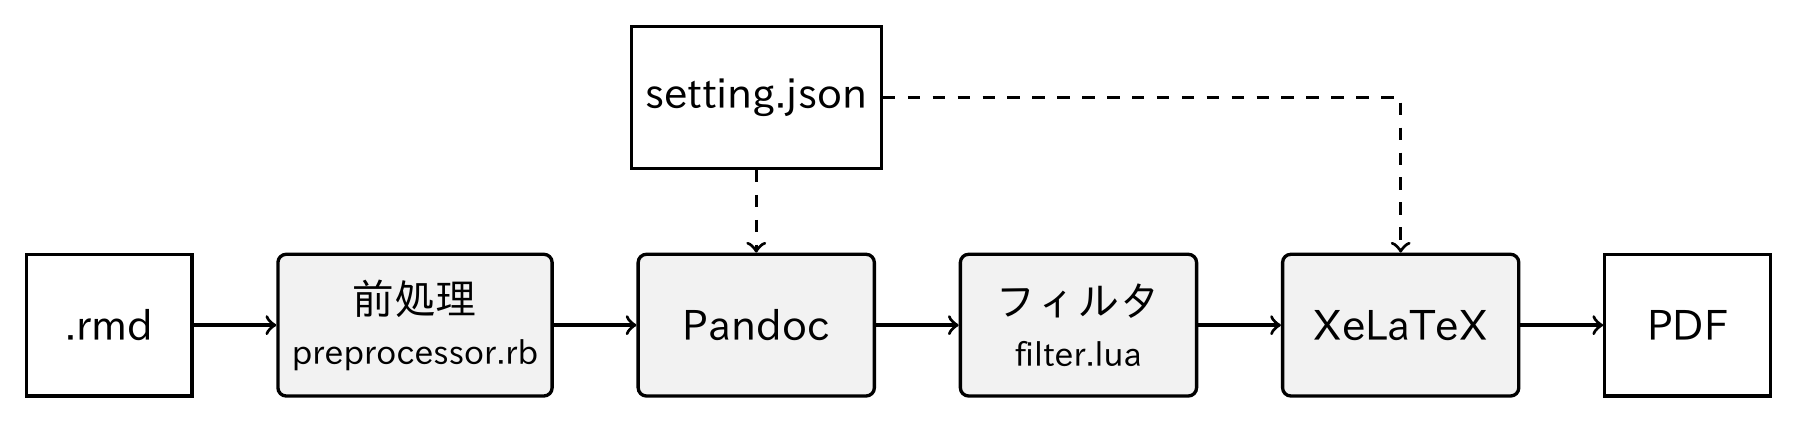
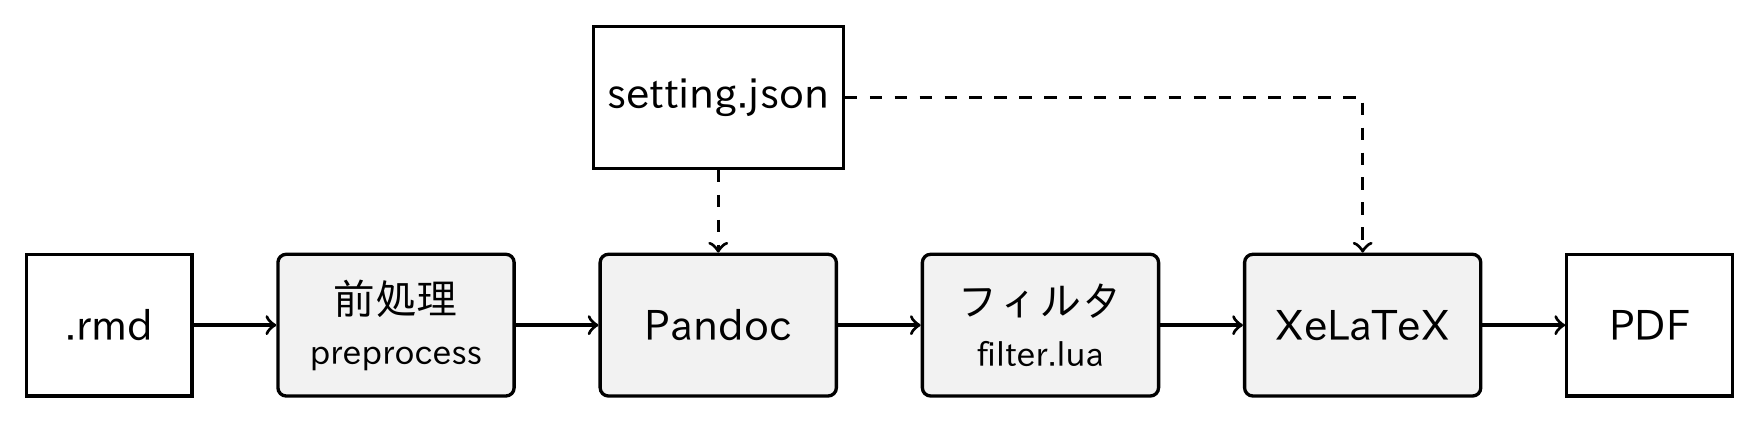
Update the example diagram for the Go preprocessor

diff --git a/examples/images/pipeline.tex b/examples/images/pipeline.tex
@@ -16,7 +16,7 @@
   arrow/.style={->, thick}
 ]
   \node[file] (rmd) {.rmd};
-  \node[stage, right=of rmd] (pre) {前処理\\\footnotesize preprocessor.rb};
+  \node[stage, right=of rmd] (pre) {前処理\\\footnotesize preprocess};
   \node[stage, right=of pre] (pandoc) {Pandoc};
   \node[stage, right=of pandoc] (filter) {フィルタ\\\footnotesize filter.lua};
   \node[stage, right=of filter] (xelatex) {XeLaTeX};
